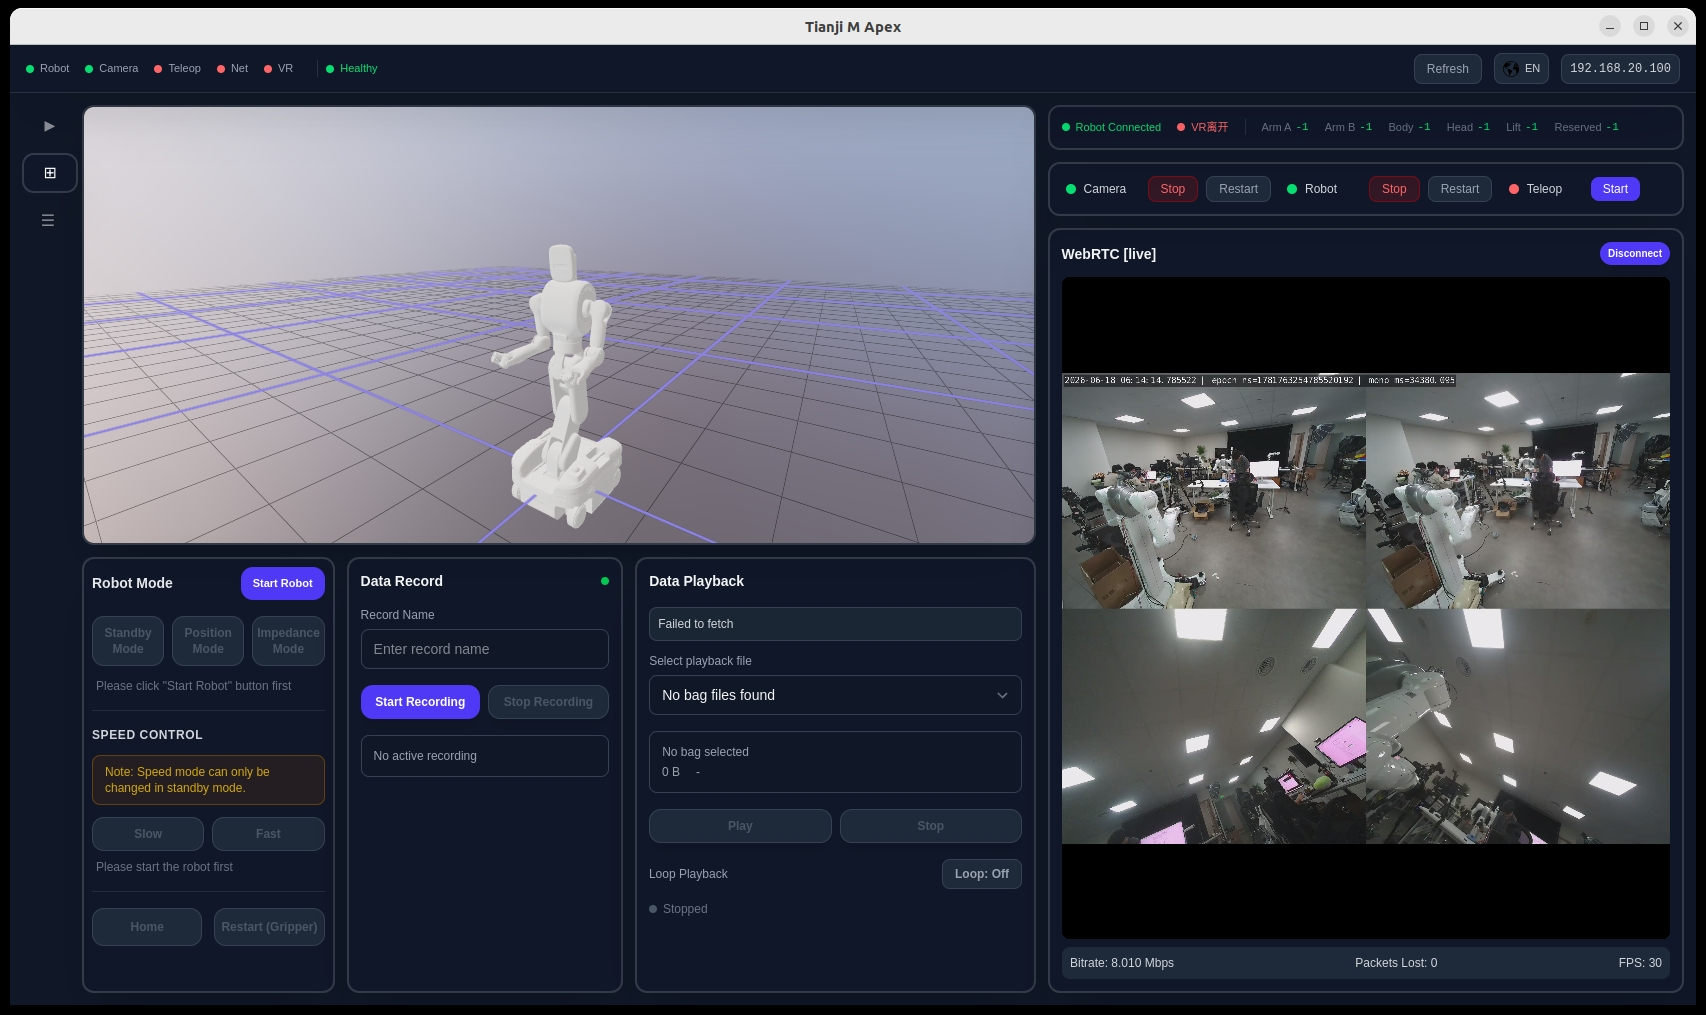
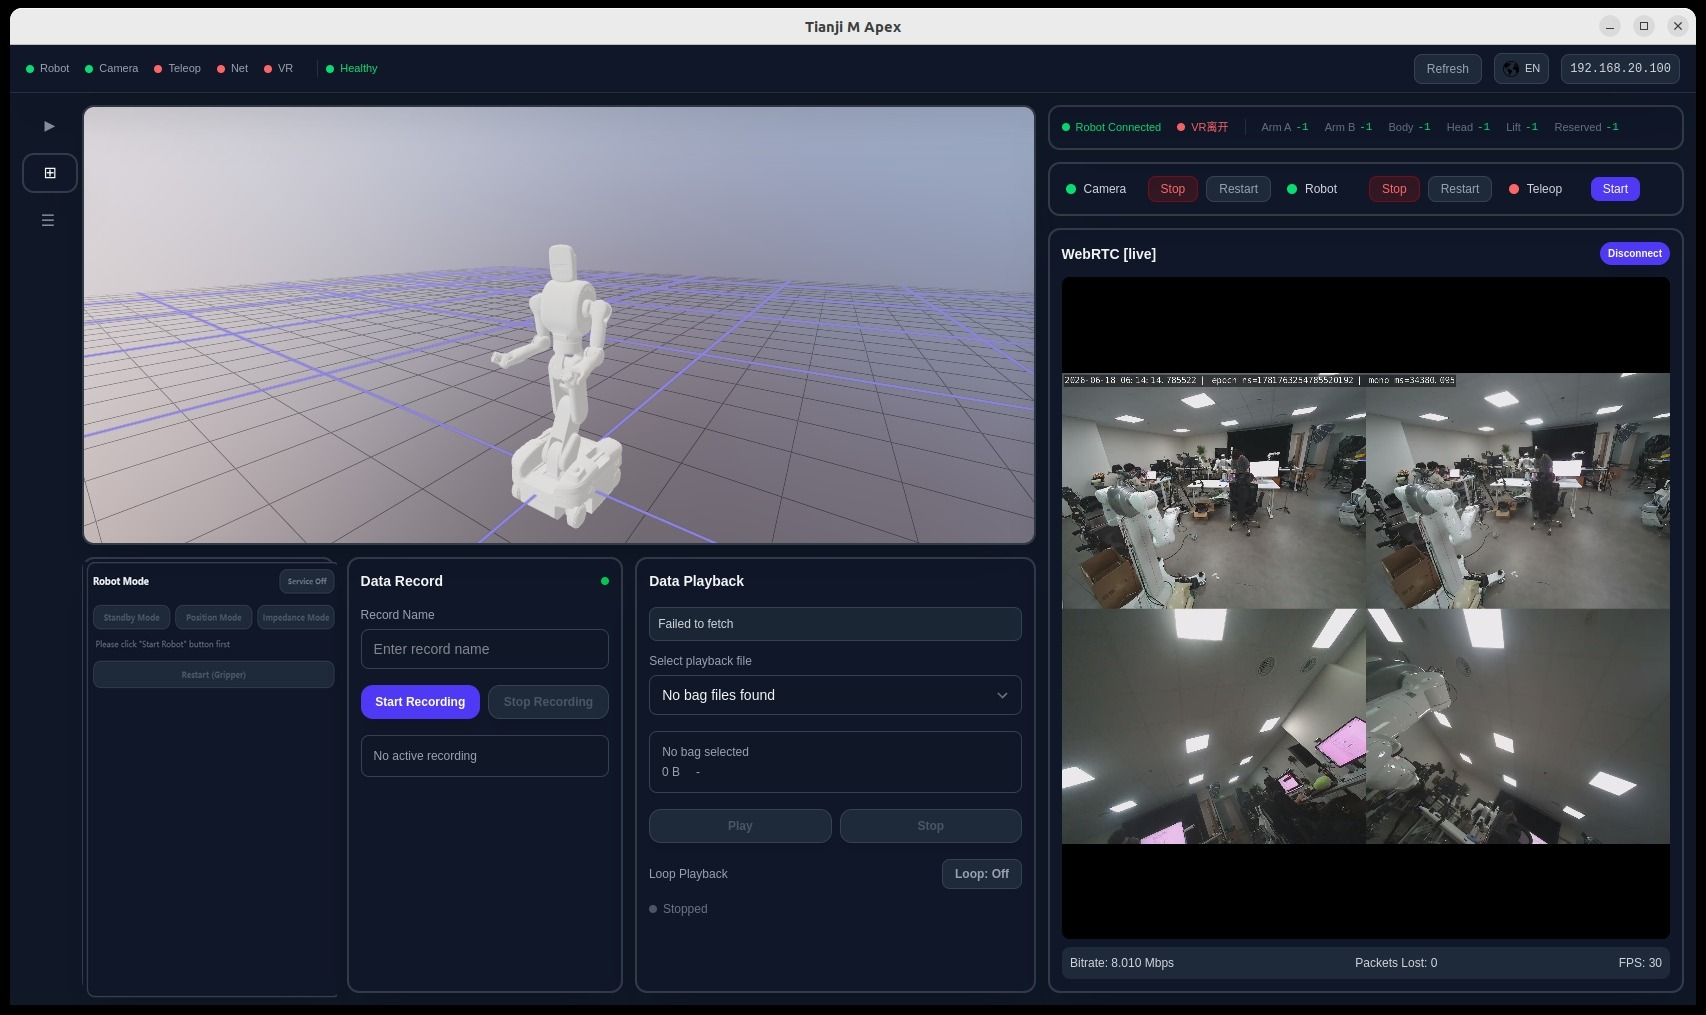
docs: update Luna robot mode section

diff --git a/docs/gento/luna/software.md b/docs/gento/luna/software.md
@@ -114,46 +114,18 @@ sudo systemctl status apex-teleop.service
 
 ## 4. 功能操作
 
-### 4.1 机器人控制（Robot Control）
+### 4.1 Robot Mode 状态卡片
 
 ![Robot Mode 控制卡片](/img/pro/software/apex_teleop_robot_mode.jpg)
 
-#### 启动机器人
+当前版本的 `Robot Mode` 卡片用于查看机器人控制入口状态，并保留控制模式状态显示和夹爪重启入口。
 
-1. 在「模块控制条」中确保 **Robot** 模块状态为绿色（已启动）
-2. 点击 **Start Robot** 按钮
-3. 按钮变为 **Started** 表示启动成功
-4. 状态栏显示 `control_ready: true`
-
-> **注意：** 如果 Robot 模块未启动，按钮显示 **Service Off** 且不可点击。
-
-#### 切换控制模式
-
-| 模式 | 编号 | 说明 |
-|------|------|------|
-| Standby | 0 | 待机模式，可调节速度 |
-| Position | 1 | 位置控制模式 |
-| Impedance | 3 | 阻抗控制模式 |
-
-- 点击模式按钮切换
-- 当前模式按钮高亮显示（紫色）
-- 切换后按钮锁定 2 秒防止误触
-
-#### 速度控制
-
-仅在 **Standby 模式**下可调节：
-
-| 档位 | 速度因子 | 说明 |
-|------|---------|------|
-| Slow | 0 | 慢速模式 |
-| Fast | 3 | 快速模式 |
-
-#### 复位与夹爪
-
-| 按钮 | 功能 |
+| 区域 | 说明 |
 |------|------|
-| Home | 机器人回零复位 |
-| Restart (Gripper) | 重启夹爪控制器 |
+| `Service Off` / 启动入口 | 显示机器人控制服务是否可用 |
+| `Standby Mode` / `Position Mode` / `Impedance Mode` | 显示或切换机器人控制模式，服务未就绪时不可用 |
+| 提示文本 | 显示当前操作前置条件，例如需要先启动机器人 |
+| `Restart (Gripper)` | 重启夹爪控制器 |
 
 ### 4.2 数据录制
 
@@ -222,7 +194,7 @@ sudo systemctl status apex-teleop.service
 
 - **"Switch failed: Service returned error_code=0"**：ROS 服务调用返回异常，实际可能已切换成功，等待 2 秒自动刷新状态
 - **Start 成功但立即恢复未启动**：ROS 控制节点未真正进入 ready 状态，检查机器人硬件连接
-- **速度按钮不可点击**：需确保在 Standby 模式且未处于错误状态
+- **模式按钮不可点击**：需确认 Robot 服务已启动，且机器人未处于错误状态
 
 ### 5.3 模块管理
 
